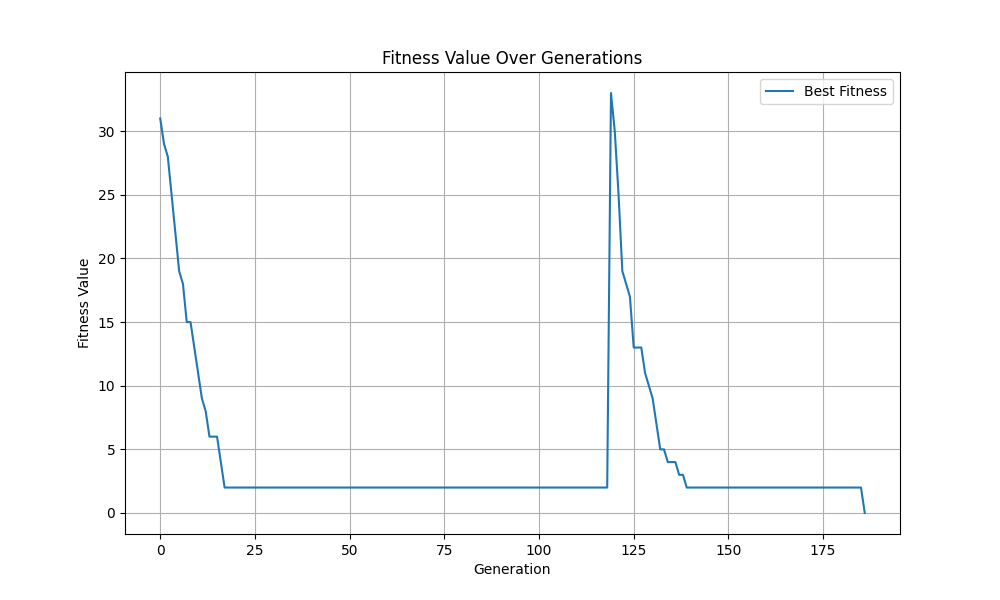
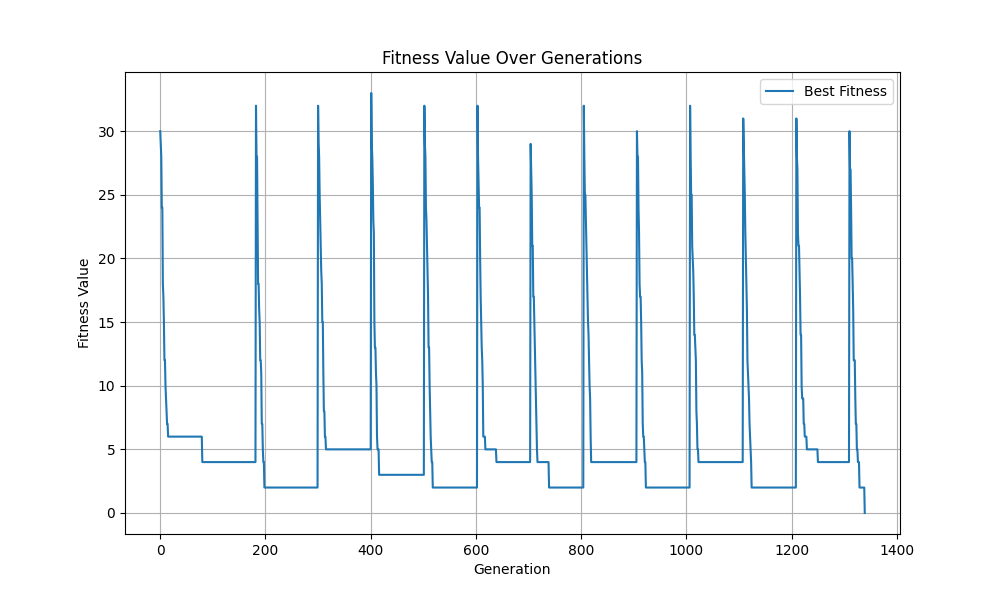
Új test file

diff --git a/sudoku_tester.py b/sudoku_tester.py
@@ -1,0 +1,84 @@
+import pandas as pd
+from soduko_solver import SudokuGeneticSolver
+import time
+import matplotlib.pyplot as plt
+
+def test_solver_with_params(grid, population_sizes=[100, 500, 1000, 3000, 5000]):
+    results = []
+    
+    for pop_size in population_sizes:
+        print(f"\nTesting with population size: {pop_size}")
+        solver = SudokuGeneticSolver(
+            grid=grid,
+            population_size=pop_size,
+            generations=1000,
+            mutation_rate=0.4
+        )
+        
+        # Csak a solve függvény futási idejét mérjük
+        start_time = time.time()
+        solution, generations = solver.solve_with_visualization()  # Ez használja a restart mechanizmust
+        elapsed_time = time.time() - start_time
+        
+        result = {
+            'Population Size': pop_size,
+            'Elite Size': int(pop_size * 0.1),
+            'Found Solution': solution is not None,
+            'Generations': generations if generations else 'N/A',
+            'Time (seconds)': round(elapsed_time, 2),
+            'Success Rate': 'Success' if solution is not None else 'Failed'
+        }
+        results.append(result)
+    
+    # Eredmények DataFrame-be rendezése
+    df = pd.DataFrame(results)
+    
+    # Táblázat vizualizálása és mentése PNG-ként
+    plt.figure(figsize=(12, 4))
+    table = plt.table(
+        cellText=df.values,
+        colLabels=df.columns,
+        cellLoc='center',
+        loc='center',
+        colColours=['#f2f2f2'] * len(df.columns)
+    )
+    
+    # Táblázat formázása
+    table.auto_set_font_size(False)
+    table.set_fontsize(9)
+    table.scale(1.2, 1.5)
+    
+    plt.axis('off')
+    plt.title('Sudoku Solver Test Results', pad=20)
+    
+    # Csak PNG mentése
+    plt.savefig('sudoku_test_results.png', 
+                bbox_inches='tight', 
+                dpi=300,
+                facecolor='white')
+    plt.close()
+    
+    # Eredmények megjelenítése konzolon
+    print("\nTest Results:")
+    print(df.to_string())
+    
+    return df
+
+if __name__ == "__main__":
+    grid = [
+        [0, 0, 0, 6, 7, 8, 0, 1, 2],
+        [6, 0, 2, 1, 9, 5, 0, 4, 0],
+        [1, 9, 0, 0, 4, 2, 5, 6, 0],
+        [8, 5, 9, 0, 6, 1, 0, 2, 3],
+        [4, 2, 0, 8, 5, 3, 0, 9, 1],
+        [0, 1, 3, 0, 2, 4, 8, 0, 6],
+        [9, 0, 1, 0, 3, 7, 2, 8, 0],
+        [2, 0, 7, 4, 1, 9, 0, 3, 5],
+        [3, 0, 5, 2, 0, 6, 1, 0, 9]
+    ]
+    
+    # Különböző populáció méretekkel való tesztelés
+    results_df = test_solver_with_params(
+        grid,
+        population_sizes=[100, 500, 1000, 3000, 5000]  # Módosított populáció méretek
+    )

diff --git a/soduko_solver.py b/soduko_solver.py
@@ -12,20 +12,27 @@ class SudokuGeneticSolver:
         self.generations = generations
         self.mutation_rate = mutation_rate
         self.elite_size = int(population_size * 0.1)  
+        self.last_generation = None
+        self.fitness_history = []
 
     def solve(self):
         population = self.initialize_population()
+        self.fitness_history = []
 
         for generation in range(self.generations):
             fitness_scores = [self.fitness(individual) for individual in population]
+            current_best = min(fitness_scores)
+            self.fitness_history.append(current_best)
 
             if 0 in fitness_scores:
                 solution_index = fitness_scores.index(0)
+                self.last_generation = generation + 1
                 return population[solution_index]
 
             new_population = self.create_new_generation(population, fitness_scores)
             population = new_population
 
+        self.last_generation = None
         return None
 
     def solve_with_visualization(self):
